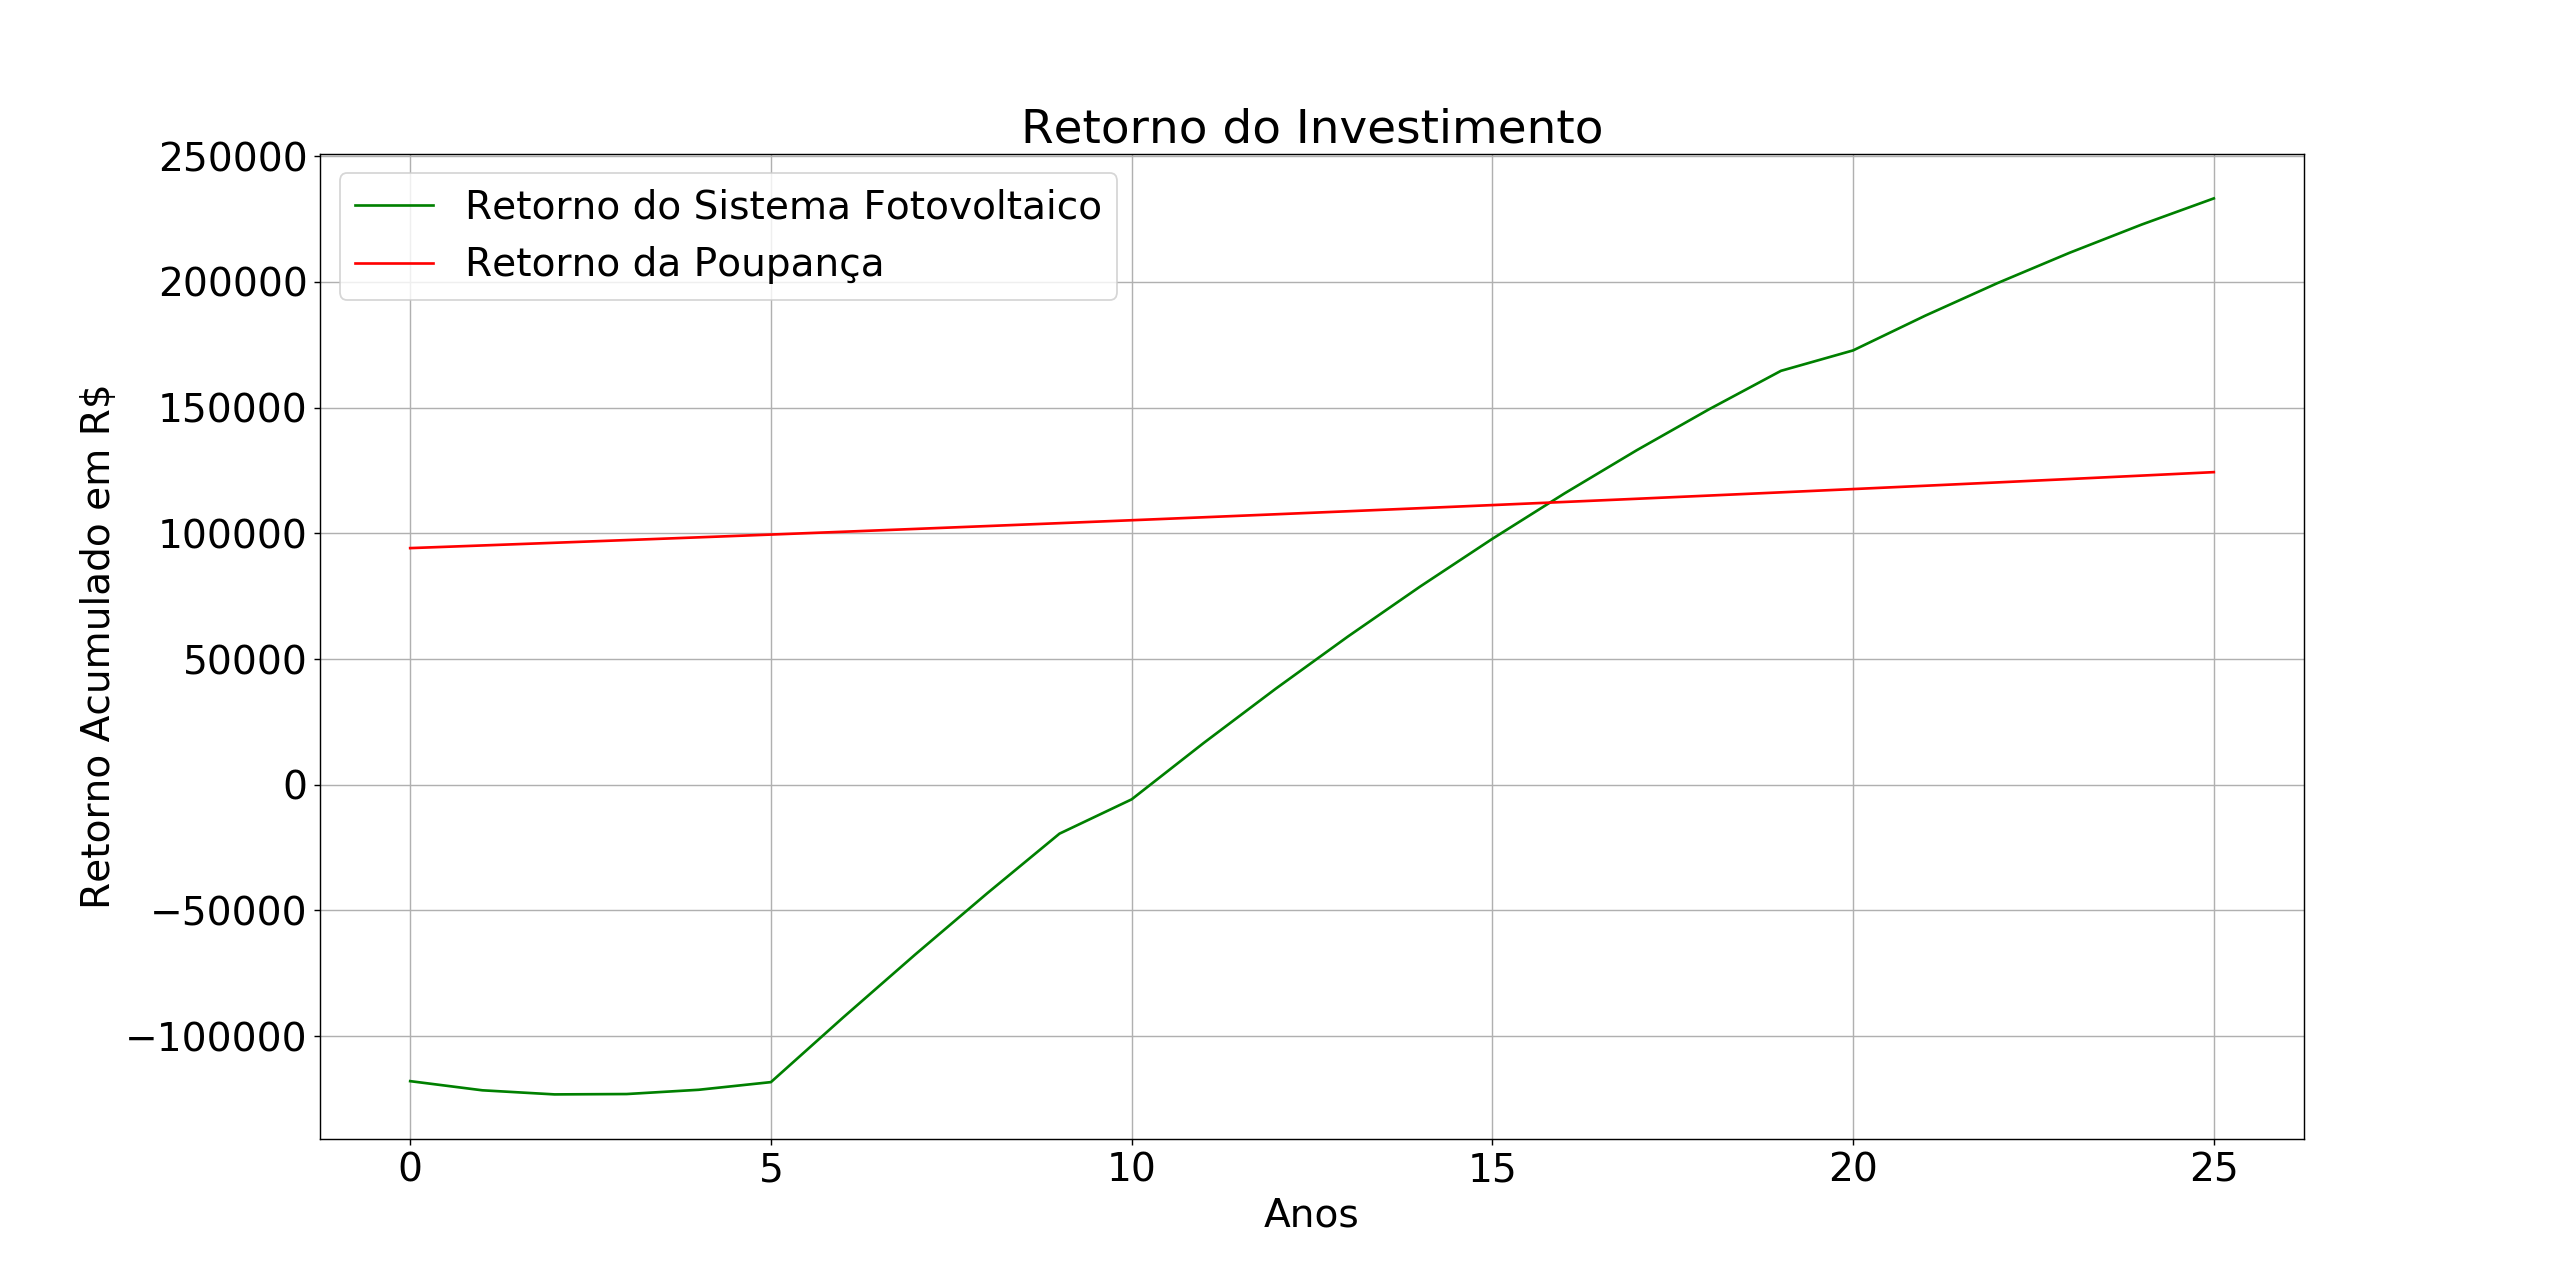
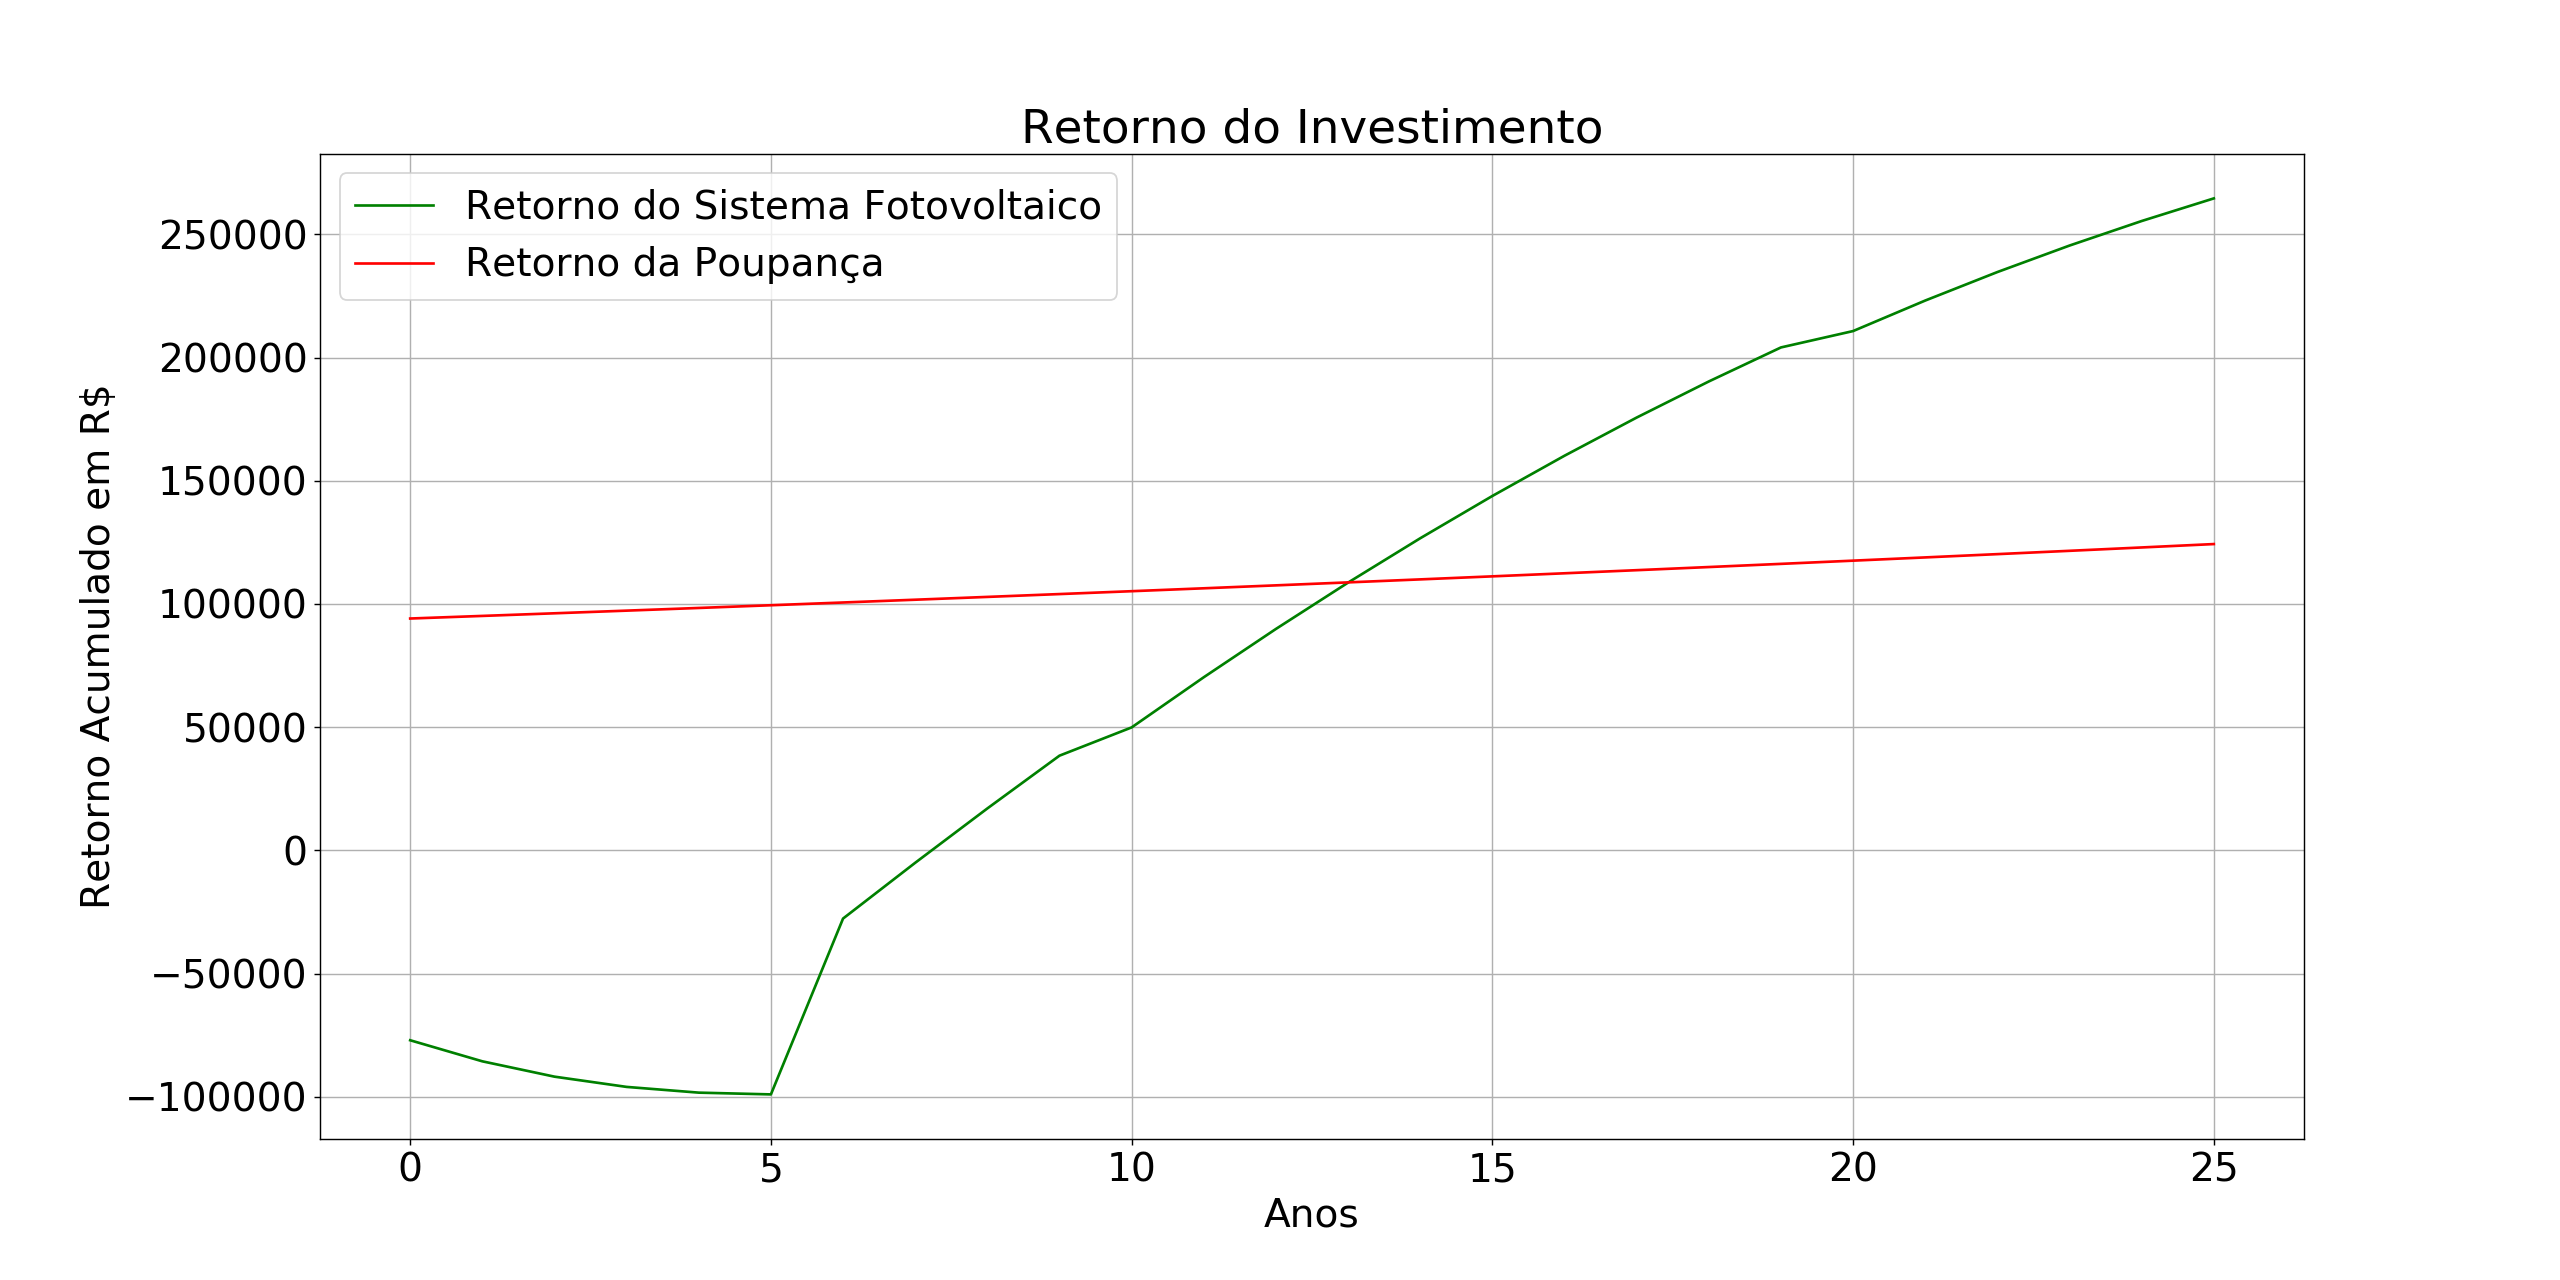
Correção Valor Inicial

diff --git a/saidas.py b/saidas.py
@@ -76,7 +76,7 @@ class Saidas:
         self.arquivo.write(".:DADOS FINANCEIROS")
         self.arquivo.write("=>Quantidade de Parcelas: %d\n" %(self.economico.qtd_parcelas))
         self.arquivo.write("=>Valor de Cada Parcela: %.02f\n" %(self.economico.valor_parcela))
-        self.arquivo.write("=>Total Pago: %.02f\n" %(self.economico.valor_inicial))
+        self.arquivo.write("=>Total Pago: %.02f\n" %(self.economico.qtd_parcelas * self.economico.valor_parcela))
         self.arquivo.write("=>Rendimento Poupança: %.02f\n" %(self.economico.valor_poupanca[-1]))
         self.arquivo.write("=>Rendimento Fotovoltaico: %.02f\n" %(self.economico.valor_completo[-1]))
 

diff --git a/economico.py b/economico.py
@@ -60,8 +60,8 @@ class Economico:
         """
 
         self.qtd_parcelas = 60
-        self.valor_parcela = 2248.97
-        self.valor_inicial = self.qtd_parcelas*self.valor_parcela
+        self.valor_parcela = 2541.16
+        self.valor_inicial = self.projeto.dados["custo"]
 
 
     def retorno_simples(self):
